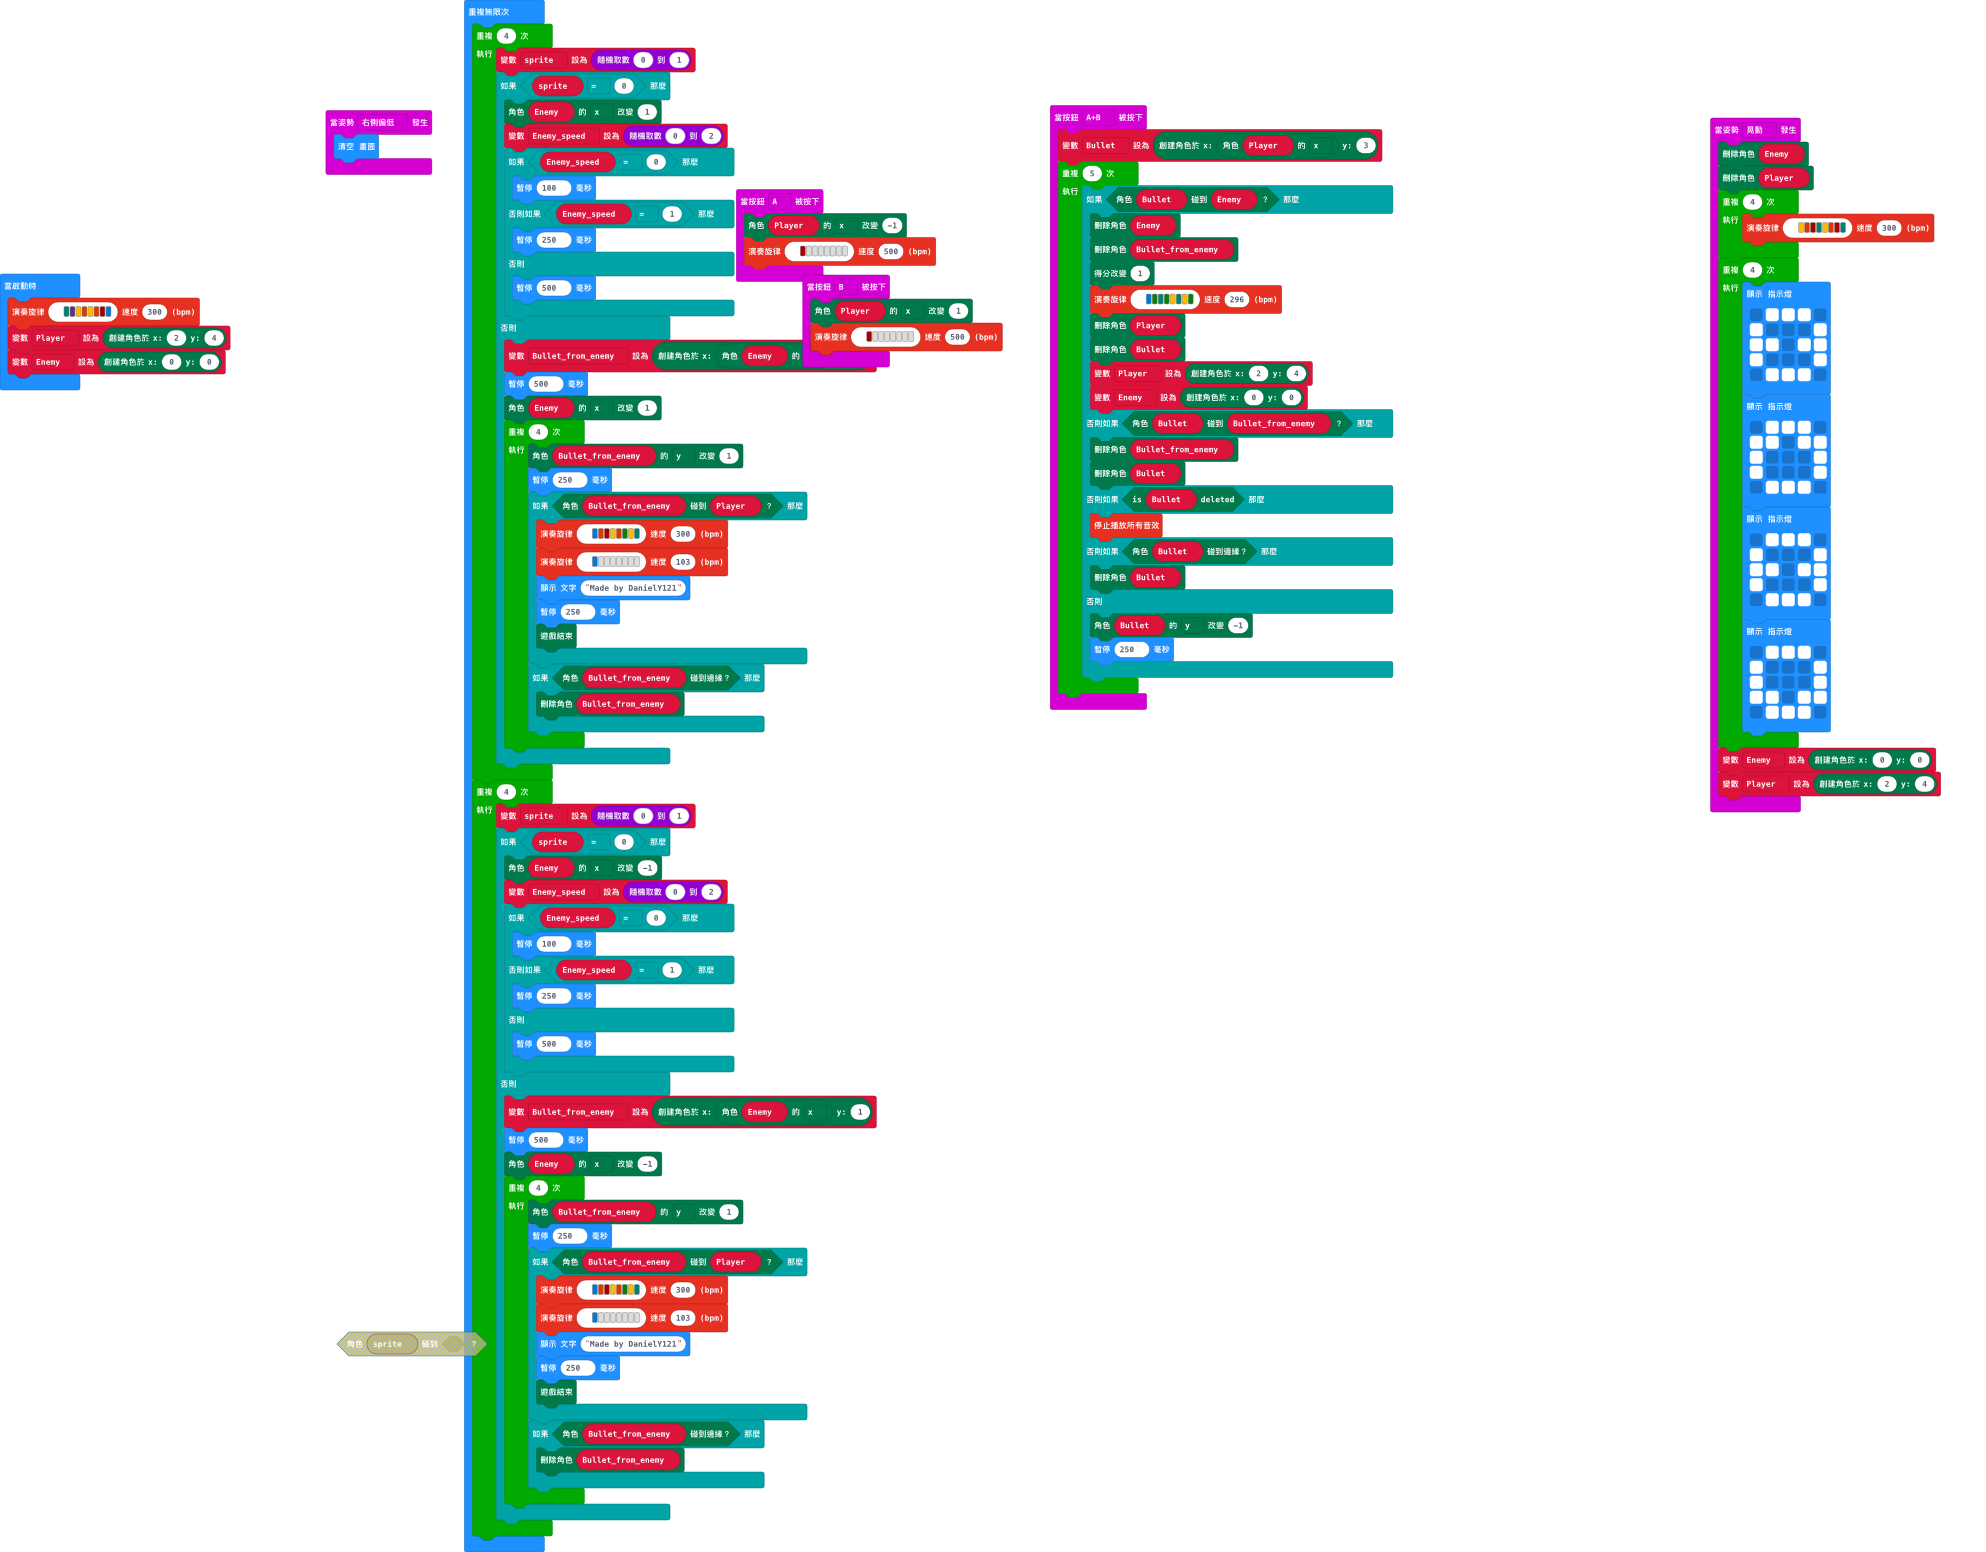
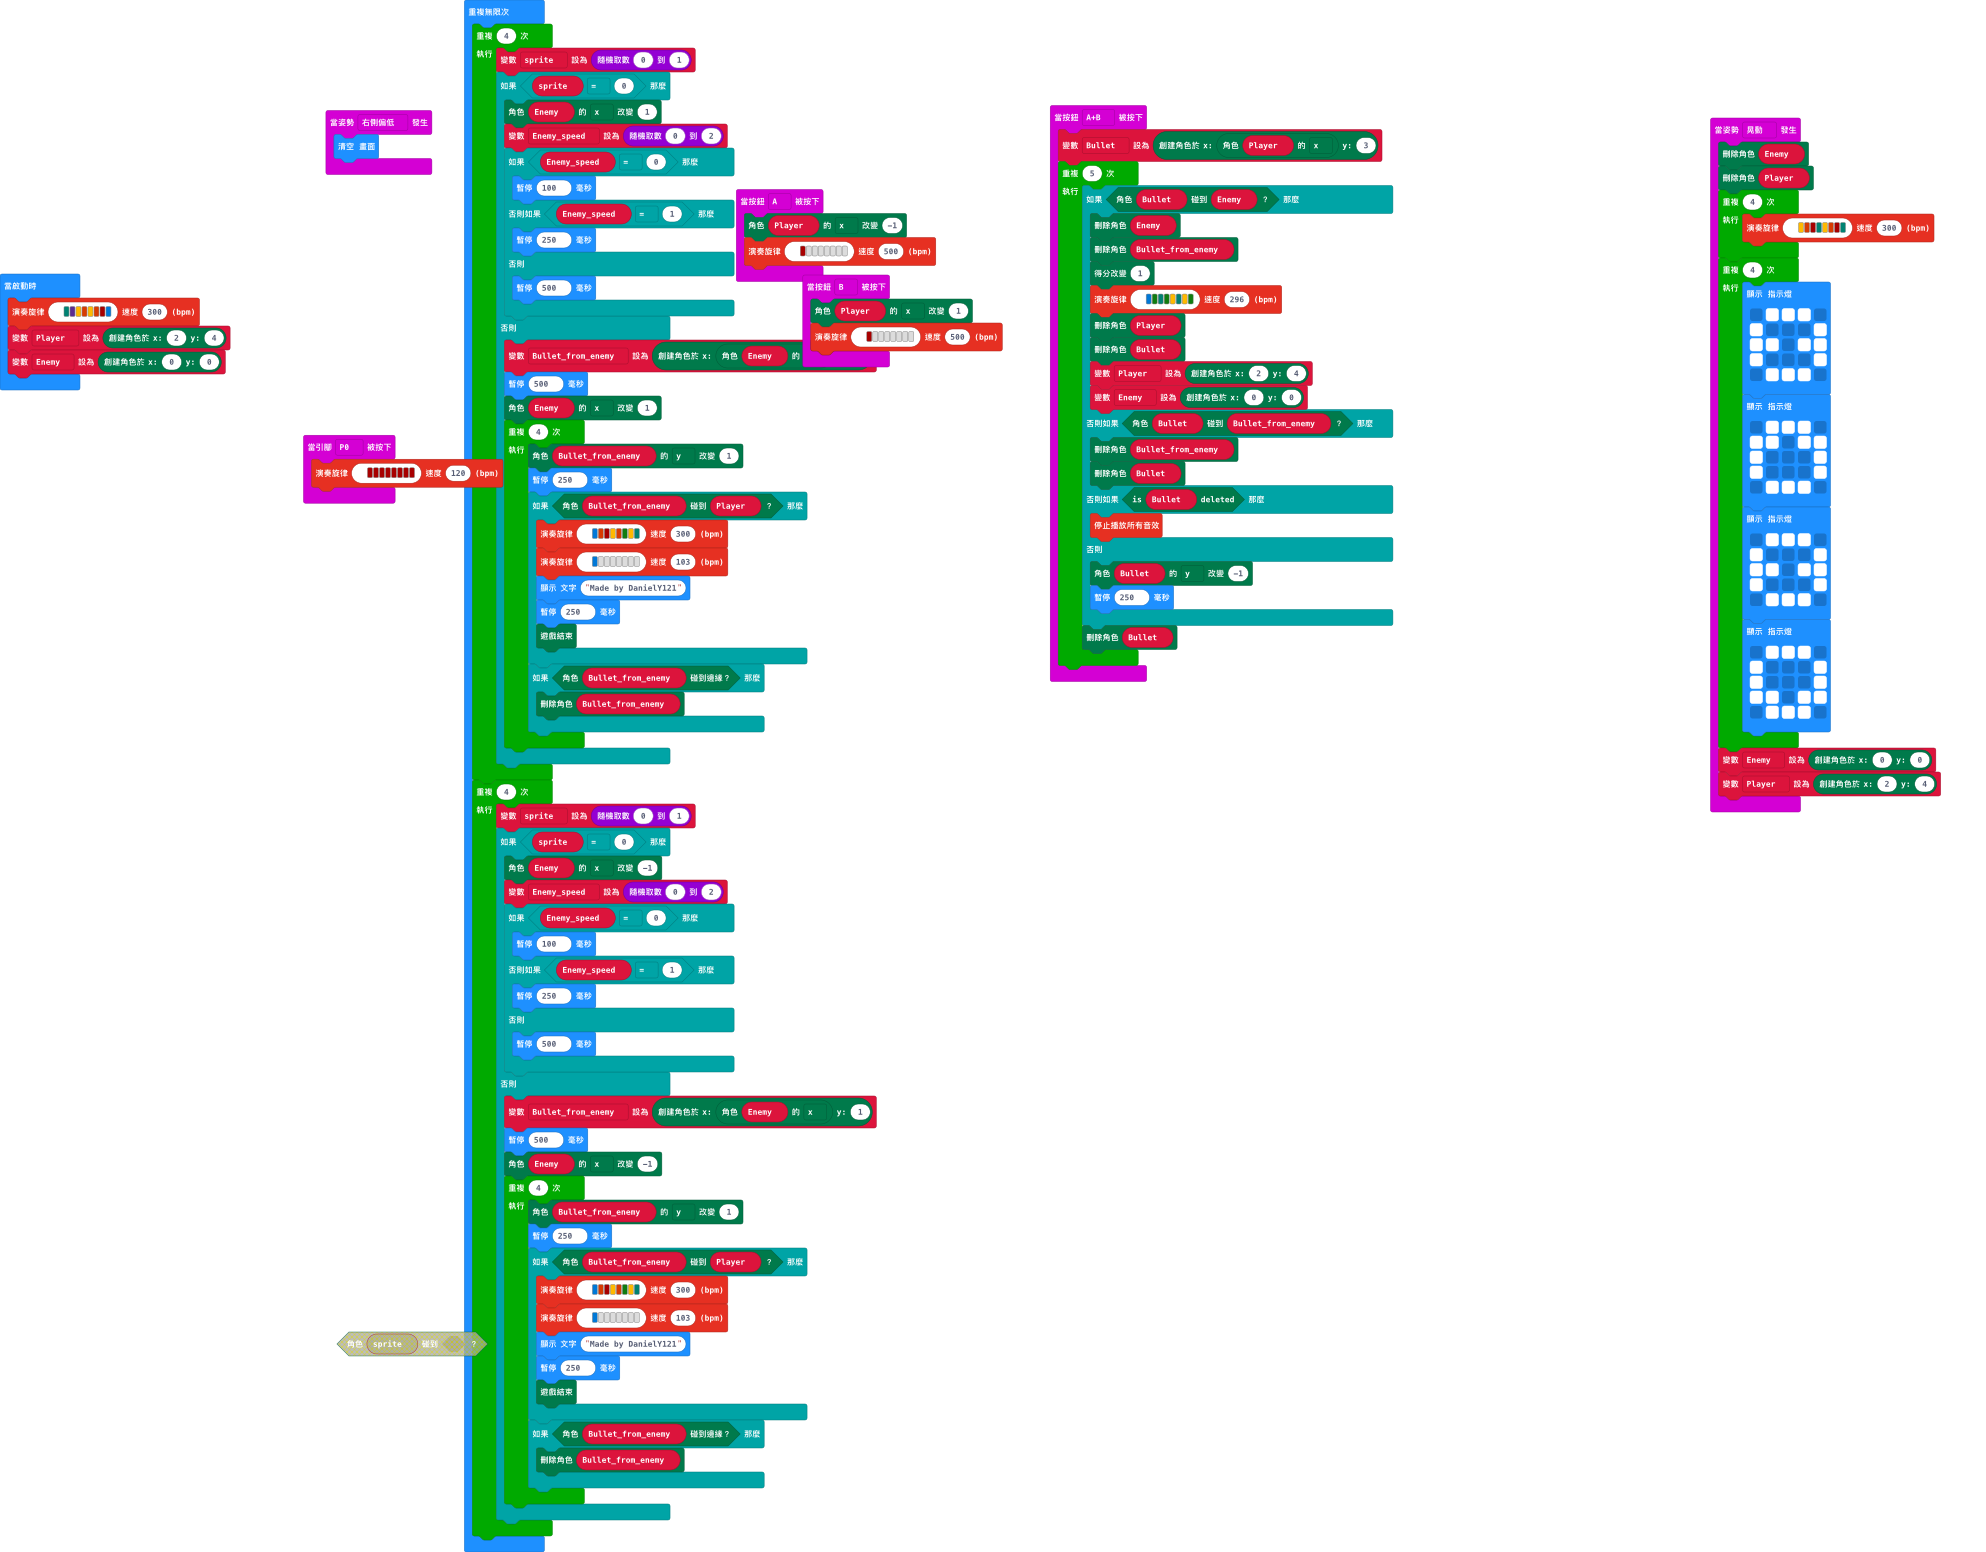
更新 main.blocks, main.ts

Changed region(s): [[0.5307, 0.3402, 0.718, 0.4639], [0.1249, 0.2784, 0.2497, 0.3402]]

diff --git a/main.ts b/main.ts
@@ -1,3 +1,6 @@
+input.onPinPressed(TouchPin.P0, function () {
+    music.playMelody("C5 C5 C5 C5 C5 C5 C5 C5 ", 120)
+})
 input.onButtonPressed(Button.A, function () {
     Player.change(LedSpriteProperty.X, -1)
     music.playMelody("C5 - - - - - - - ", 500)
@@ -58,12 +61,11 @@ input.onButtonPressed(Button.AB, function () {
             Bullet.delete()
         } else if (Bullet.isDeleted()) {
             music.stopAllSounds()
-        } else if (Bullet.isTouchingEdge()) {
-            Bullet.delete()
         } else {
             Bullet.change(LedSpriteProperty.Y, -1)
             basic.pause(250)
         }
+        Bullet.delete()
     }
 })
 input.onButtonPressed(Button.B, function () {
